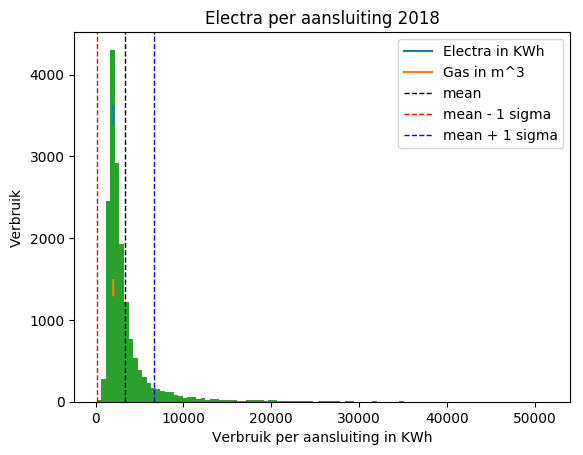
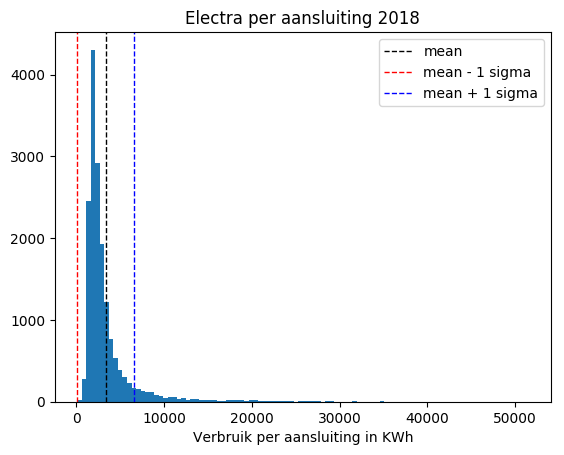
Properly calculate averages and redo plots

diff --git a/python/process_yearly_energy.py b/python/process_yearly_energy.py
@@ -34,8 +34,30 @@ def save_dict_plot(dict_list, title, plot_names_list, axis_labels):
     plt.title(title)
     plt.savefig(save_location + 'week2/' + title, bbox_inches='tight')
 
+def save_dict_bar_plot(dict_list, title, plot_names_list, axis_labels):
+    '''
+    plots dicts in one plot, dict_list can have multiple dict objects.
+    The keys of the dict are plotted on the x and the values on the y axis.
+    Provide title and the names of the plots.
+    '''
+    for i in range(len(dict_list)):
+        lists = sorted(dict_list[i].items()) # sorted by key, return a list of tuples
+
+        x, y = zip(*lists) # unpack a list of pairs into two tuples
+
+        plt.bar(x, y, label = plot_names_list[i])
+    plt.xlabel(axis_labels[0])
+    plt.ylabel(axis_labels[1])
+    plt.legend()
+    plt.title(title)
+    plt.savefig(save_location + 'week2/' + title, bbox_inches='tight')
+    plt.close()
+
 # example usage
-# save_dict_plot([elc_data, gas_data], 'Gemiddeld verbuik van gas en electra in amsterdam per jaar', ['Electra in KWh', 'Gas in m^3'], ['Jaar', 'Verbruik'])
+# save_dict_bar_plot([elc_data, gas_data], 'Gemiddeld verbuik van gas en electra in amsterdam per jaar bar plot', ['Electra in KWh', 'Gas in m^3'], ['Jaar', 'Verbruik'])
+# save_dict_bar_plot([gas_data], 'Gemiddeld verbuik van gas in amsterdam per jaar bar plot', ['Gas in m^3'], ['Jaar', 'Verbruik'])
+# save_dict_bar_plot([elc_data], 'Gemiddeld verbuik van electra in amsterdam per jaar bar plot', ['Electra in KWh.'], ['Jaar', 'Verbruik'])
+
 
 def save_hist_plot(data_name, title, x_label):
     with open(data_path + '/' + data_name, 'rb') as fl:
@@ -52,12 +74,12 @@ def save_hist_plot(data_name, title, x_label):
     plt.savefig(save_location + 'week2/' + title, bbox_inches='tight')    
     plt.close()
 
-#save_hist_plot('elk_per_aansluiting2018.pickle', 'Electra per aansluiting 2018', 'Verbruik per aansluiting in KWh')
-#save_hist_plot('gas_per_aansluiting2018.pickle', 'Gas verbruik per aansluiting 2018', 'Verbruik per aansluiting in m^3')
+# save_hist_plot('elk_per_aansluiting2018.pickle', 'Electra per aansluiting 2018', 'Verbruik per aansluiting in KWh')
+# save_hist_plot('gas_per_aansluiting2018.pickle', 'Gas verbruik per aansluiting 2018', 'Verbruik per aansluiting in m^3')
 
 # logarithm of consumption
-#save_hist_plot('log_elk_per_aansluiting2018.pickle', 'Logaritme electra per aansluiting 2018', 'log(verbruik) per aansluiting in KWh')
-#save_hist_plot('log_gas_per_aansluiting2018.pickle', 'Logaritme gas verbruik per aansluiting 2018', 'log(verbruik) per aansluiting in m^3')
+# save_hist_plot('log_elk_per_aansluiting2018.pickle', 'Logaritme electra per aansluiting 2018', 'log(verbruik) per aansluiting in KWh')
+# save_hist_plot('log_gas_per_aansluiting2018.pickle', 'Logaritme gas verbruik per aansluiting 2018', 'log(verbruik) per aansluiting in m^3')
 
 def plot_two_scales(dict_one, dict_two, labels):
     plot_left = sorted(dict_one.items()) 
@@ -86,4 +108,4 @@ with open(data_path + '/gemiddelde_temperatuur_2008_2017.pickle', 'rb') as fl:
     temp_data = pl.load(fl)
 
 
-#plot_two_scales(temp_data, gas_data, ['Jaarlijks gemiddelde temperatuur Schiphol graden Celcius','Jaarlijks gemiddeld gas verbruik Amsterdam in m^3'])
+plot_two_scales(temp_data, gas_data, ['Jaarlijks gemiddelde temperatuur Schiphol graden Celcius','Jaarlijks gemiddeld gas verbruik Amsterdam in m^3'])

diff --git a/python/process_data.py b/python/process_data.py
@@ -12,14 +12,12 @@ def process_average_yearly_gas_elektra():
     for year in years:
         # save description of gas usage
         gas_pd = get_pandas('GAS' + '_' + year + '.csv') 
-        gas_averaged_sjv = gas_pd['SJV']
-        print(gas_averaged_sjv.mean(), gas_averaged_sjv.std())
-        gas[int(year)] = gas_averaged_sjv.mean()
+        gas_averaged_sjv = ( gas_pd['SJV'] * gas_pd['Aantal Aansluitingen'] ) / gas_pd['Aantal Aansluitingen'].sum()
+        gas[int(year)] = gas_averaged_sjv.sum()
     
         el_pd = get_pandas('ELK' + '_' + year + '.csv') 
-        el_averaged_sjv = el_pd['SJV']
-        print(el_averaged_sjv.mean(), el_averaged_sjv.std())
-        electra[int(year)] = el_averaged_sjv.mean()
+        el_averaged_sjv = (el_pd['SJV'] * el_pd['Aantal Aansluitingen']) / el_pd['Aantal Aansluitingen'].sum()
+        electra[int(year)] = el_averaged_sjv.sum()
 
     with open(save_dir + '/average_yearly_gas_usage_2009_2018.pickle', 'wb') as out:
         pl.dump(gas, out, protocol=pl.HIGHEST_PROTOCOL)
@@ -46,13 +44,23 @@ def get_yearly_power_consumption(year):
     elk_pd = get_pandas('ELK' + '_' + year + '.csv')
 
     gas_usage = np.array(gas_pd['SJV'] )
+    gas_aansluitingen = np.array(gas_pd['Aantal Aansluitingen'] )
     elk_usage = np.array(elk_pd['SJV'] )
+    elk_aansluitingen = np.array(elk_pd['Aantal Aansluitingen'] )
 
+    all_sjv_gas = []
+    all_sjv_elk = []
+    for i in range(len(gas_usage)):
+        all_sjv_gas.extend([gas_usage[i]] * gas_aansluitingen[i])
+    for i in range(len(elk_usage)):
+        all_sjv_elk.extend([elk_usage[i]] * elk_aansluitingen[i])
+    print(len(all_sjv_gas), len(all_sjv_elk))
     with open(save_dir + '/gas_per_aansluiting' + year + '.pickle', 'wb') as out:
         pl.dump(gas_usage, out, protocol=pl.HIGHEST_PROTOCOL)
     
     with open(save_dir + '/elk_per_aansluiting' + year + '.pickle', 'wb') as out:
         pl.dump(elk_usage, out, protocol=pl.HIGHEST_PROTOCOL)
+
 
 get_yearly_power_consumption('2018')
 
